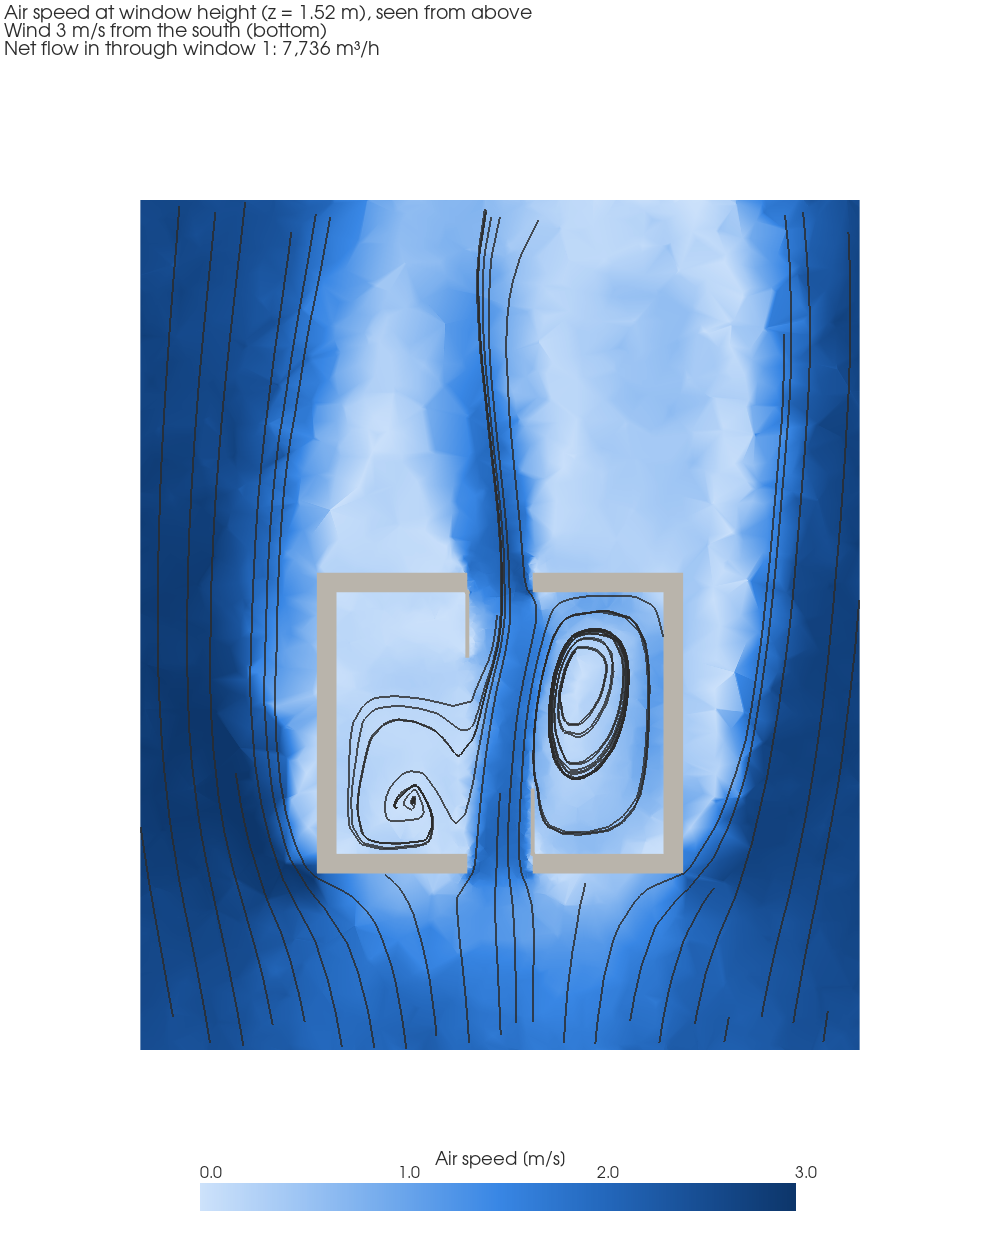
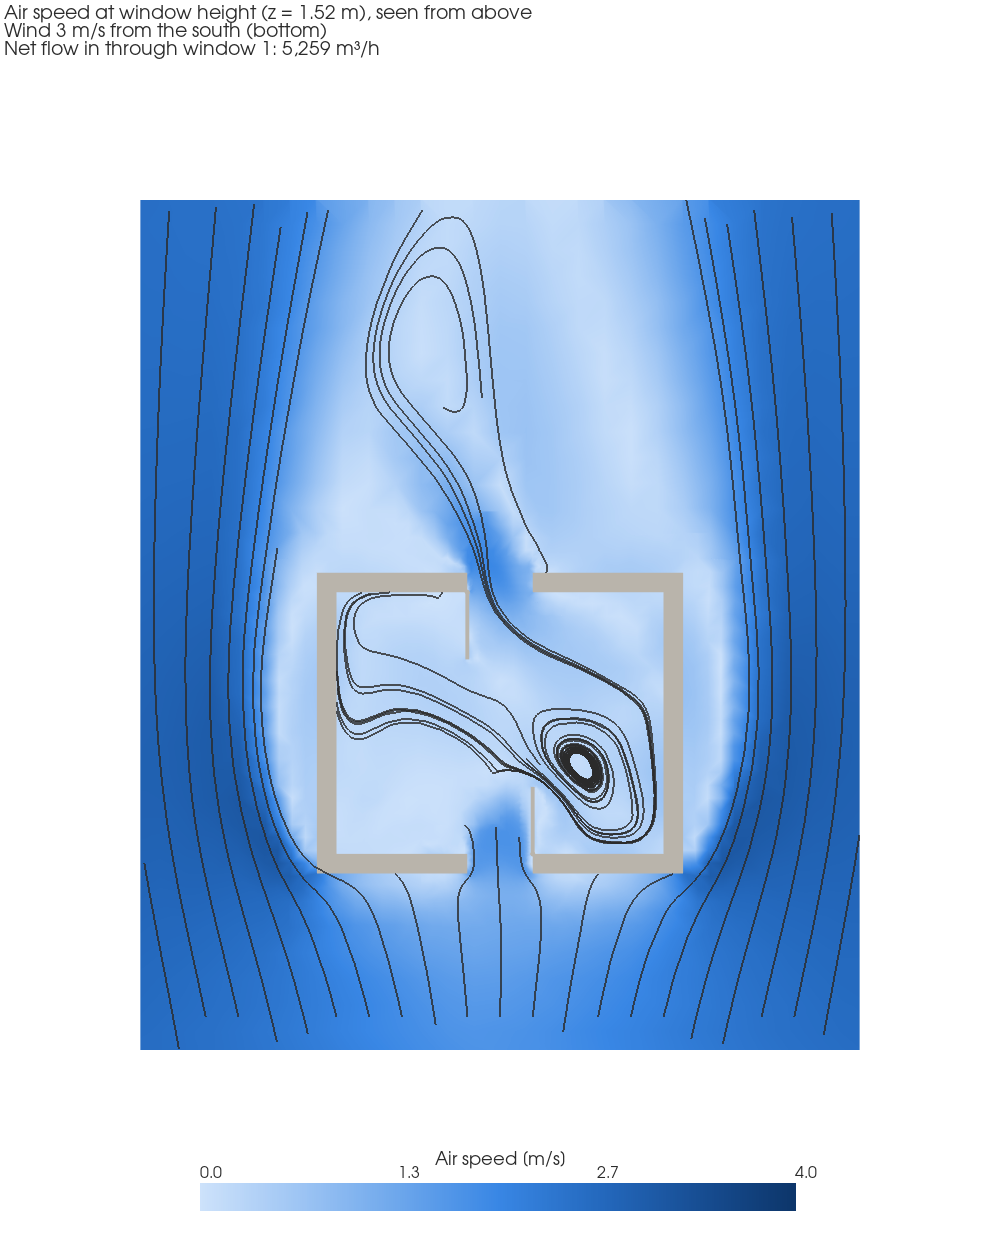
Mesh study: snappyHexMesh medium is mesh-independent; make it the default
- PLAN.md §6: snappy study table (t90 within +-2.5 %, tau within +-1.5 %),
  decision snappy medium as default mesher
- configs: default and examples use mesher snappy
- README: results and pictures from the snappy default case
- log.md entry

diff --git a/README.md b/README.md
@@ -15,16 +15,16 @@ This project runs automated **OpenFOAM** simulations of *Stoßlüften*: opening 
 | OpenFOAM case: steady wind flow | ✅ first test case runs |
 | Tracer (air replacement) and metrics | ✅ runs on the frozen steady flow |
 | Solver benchmark: comparison with a fully transient run | ✅ steady method chosen (see below) |
-| Mesh and iteration checks | ⏳ running |
+| Mesh study | ✅ snappyHexMesh, medium cell sizes (see PLAN.md §6) |
 | Parameter sweep, dataset | planned |
 
 ## First result
 
 ![Air speed and streamlines in the default case](docs/images/default_flow.png)
 
-This is the default case: windows on opposite walls, both turned open 90°, with a 3 m/s wind from the south. The wind enters through the south window, crosses the room as a jet and leaves through the north window, with two slow vortices on either side of the jet. About **7,700 m³/h** of air flows through the 50 m³ room.
+This is the default case: windows on opposite walls, both turned open 90°, with a 3 m/s wind from the south. The wind enters through the south window and crosses the room diagonally as a jet, with a slow vortex in the south-east corner. It leaves through the north window. About **5,250 m³/h** of air flows through the 50 m³ room.
 
-The mesh has 160k cells, and the steady solve took 4.4 min on 8 cores. These are first test values on a coarse mesh and have not been checked for accuracy yet.
+The mesh is a hex-dominant snappyHexMesh with 103k cells, and the whole case (mesh, flow, tracer) takes about 5 min on 8 cores. The mesh study in [PLAN.md §6](PLAN.md) shows that the air-replacement results change by less than 2 % with finer cells.
 
 ### Air replacement
 
@@ -32,13 +32,13 @@ The mesh has 160k cells, and the steady solve took 4.4 min on 8 cores. These are
 
 At the start, the room is full of "old" indoor air (a tracer with value 1), and outdoor air is fresh (value 0). The tracer is then carried and mixed by the simulated wind flow.
 
-- **90 % replaced:** after **67 s**.
-- **Time constant:** the curve follows 1 − exp(−t/τ) with **τ = 30 s**.
-- **Compared with perfect mixing:** a perfectly mixed room with the same airflow would reach 90 % after 54 s. The real room is slower because part of the incoming air rushes straight through to the opposite window.
+- **90 % replaced:** after **76 s**.
+- **Time constant:** the curve follows 1 − exp(−t/τ) with **τ = 33.5 s**.
+- **Compared with perfect mixing:** a perfectly mixed room with the same airflow would reach 90 % after about 79 s. The diagonal jet stirs the whole room, so it comes close to perfect mixing.
 
 ![Where the original indoor air is after 30, 60 and 120 s](docs/images/default_tracer.png)
 
-The pictures show where the old air stays longest: in the slow vortex next to the jet, on the west side of the room.
+The pictures show where the old air stays longest: in the eastern half of the room, around the vortex, and in the south-west corner.
 
 ### Solver benchmark: is the fast method good enough?
 
@@ -48,7 +48,7 @@ The dataset uses a fast method:
 We compared it with a much more expensive one:
 - **(B)** compute the time-varying flow with the tracer (URANS), about 25–30× slower.
 
-We ran both on two cases: windows on opposite walls, and both windows on the same wall. The second is the hardest case for method A.
+We ran both on two cases: windows on opposite walls, and both windows on the same wall. The second is the hardest case for method A. This benchmark ran on the earlier tetrahedral mesh.
 
 ![Benchmark, opposite walls](docs/images/benchmark_default.png)
 ![Benchmark, same wall](docs/images/benchmark_same_wall.png)

diff --git a/log.md b/log.md
@@ -224,3 +224,19 @@ Template:
   - **Geometry fix:** located the invalid faces with `checkMesh -writeSets`. Some came from sash and post surfaces touching the planes of the opening. The sash now overlaps the opening by 2.5 cm (like a real sash) and the hinge post extends 2 cm further, and the config check makes sure the sash corner stays inside the post. Tet quality improved from 0.28 to 0.33, and all 114 tests pass.
   - **Result:** the remaining invalid polyhedral faces (15 at best) sit at all sharp concave window edges, a known limitation of `polyDualMesh`. Recommended switching to the hex-dominant `snappyHexMesh` (the plan's fallback).
 - **Human decisions / review:** Daniel approved steps 1 (reproducible meshing) and 2 (polyhedral test).
+
+## 2026-10-14 — snappyHexMesh mesh study: mesh-independent results
+- **Who:** Daniel
+- **AI tool / model:** Claude Code (Claude Opus 5.5)
+- **What the AI did:**
+  - Implemented a second mesher based on the OpenFOAM tutorial `windAroundBuildings` (`mesh.mesher: snappy`):
+    - STL export of the solid parts with regions (`geometry/surfaces.py`);
+    - a block mesh of the domain, with refinement levels derived from the configured cell sizes;
+    - feature-edge snapping;
+    - room floor moved to the room walls with `createPatch`.
+    The first mesh was valid immediately: 103k cells, 90 % hexahedra, `checkMesh` OK.
+  - Ran a mesh study (coarse, medium, fine) plus three perturbation tests (window ±1 cm, cell sizes ×0.97). t90 stays within ±2.5 % and τ within ±1.5 %, where the tetrahedral mesh scattered by ±10–20 %. The residuals converge about 100× better.
+  - Recommended and set snappyHexMesh medium as the default mesher (about 5 min per case). Re-ran the default case: reproducible (t90 76.4 s vs 76.5 s).
+  - Updated the README pictures and numbers. On the new mesh, the jet crosses the room diagonally and the air replacement is close to perfect mixing.
+  - The AI's wait loop hung once more on a `pgrep -f` pattern that matched itself; Daniel noticed the idle machine. The AI added a rule to AGENTS.md (wait via output files) and saved it as a lesson.
+- **Human decisions / review:** Daniel approved trying snappyHexMesh, and asked for the best mesh setting.

diff --git a/PLAN.md b/PLAN.md
@@ -129,7 +129,22 @@ Findings:
 - **Meshing is now reproducible.** Gmsh runs single-threaded: the same config gives a byte-identical mesh in 0.8 s.
 - **Geometry fix:** the sash overlaps the opening by 2.5 cm on all sides, and the hinge post sticks out 2 cm beyond the sash, so no surfaces touch in the opening planes. Tet quality rose from 0.28 to 0.33.
 - **Polyhedral cells (`polyDualMesh`) were rejected.** At the sharp concave window edges, 15–370 faces stay invalid, depending on the options, so `checkMesh` fails.
-- **Next:** hex-dominant `snappyHexMesh` (§8), then repeat the mesh study with a perturbation test.
+- **Hex-dominant `snappyHexMesh`** (2026-10-14), same physics, default case, method A:
+
+| Mesh | Cells | t90 | τ | Air replaced after 60 s | Window flow | Compute per case |
+|---|---|---|---|---|---|---|
+| coarse (×1.4) | 53k | 78.2 s | 33.1 s | 83.1 % | 5,783 m³/h | 1.9 min |
+| **medium** | **103k** | **76.5 s** | **33.5 s** | **83.4 %** | **5,253 m³/h** | **3.5 min** |
+| fine (×0.7) | 249k | 77.6 s | 33.6 s | 83.3 % | 5,074 m³/h | 10.8 min |
+| medium, cell sizes ×0.97 | 120k | 76.5 s | 32.9 s | 83.6 % | 5,546 m³/h | 5.0 min |
+| medium, window 1 +1 cm | 104k | 74.2 s | 32.6 s | 84.3 % | 5,312 m³/h | 3.2 min |
+| medium, window 1 −1 cm | 104k | 75.8 s | 33.2 s | 83.7 % | 5,317 m³/h | 4.5 min |
+
+  - **Air-replacement metrics are mesh-independent and robust:** t90 within ±2.5 % and τ within ±1.5 % over all six runs. The tets scattered by ±10–20 %.
+  - **Residuals:** about 1e-5 instead of about 1e-3, and the tracer stays exactly within 0…1.
+  - **Window flow converges with refinement** (extrapolated ≈ 4,980 m³/h), so medium is about 5 % high.
+  - **Decision: `snappyHexMesh` with the medium sizes is the default mesher.** About 5 min per case including the tracer, so 180 cases take about 15 h.
+  - **Note:** the solver benchmark (§5) ran on the old tetrahedral mesh. On the new mesh, the default case's flow is 32 % lower and t90 14 % higher than on that mesh.
 
 ## 7. Schedule
 
